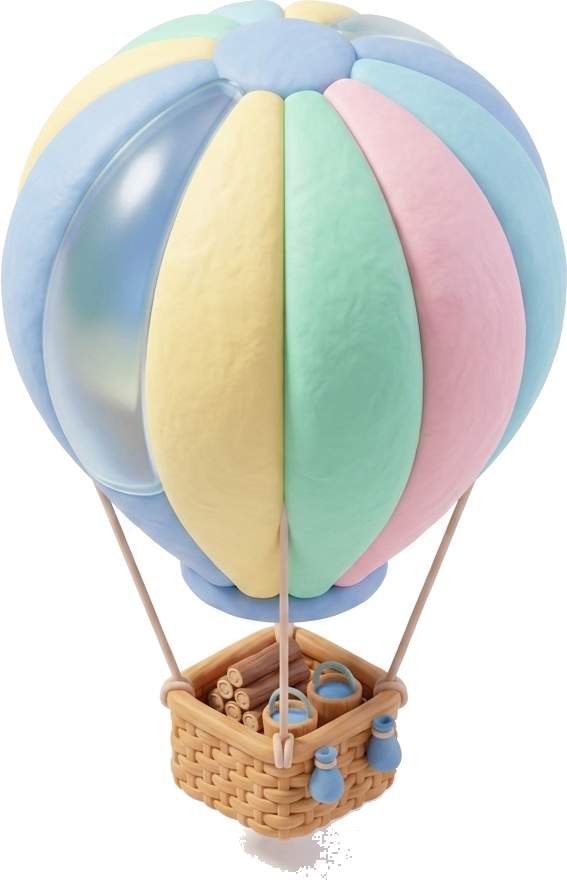
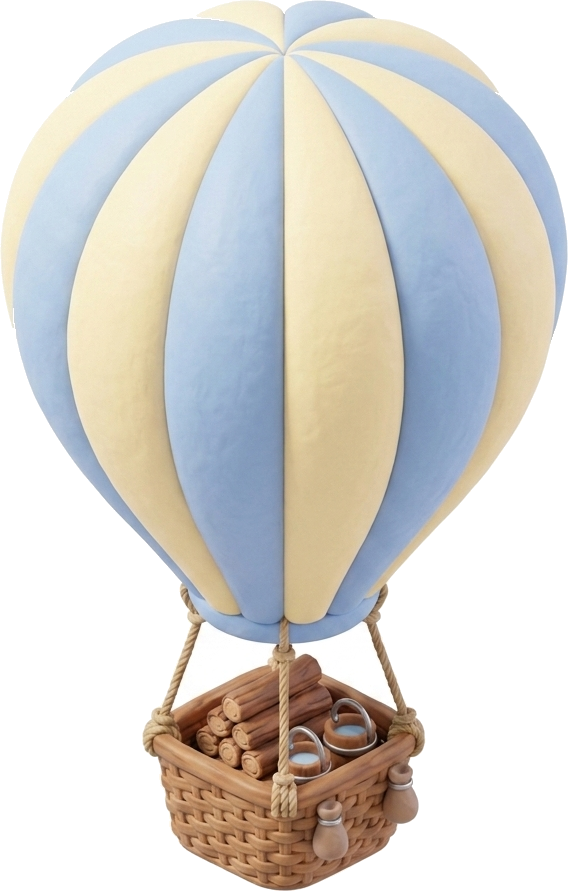
Add files via upload

diff --git a/app.js b/app.js
@@ -31,7 +31,7 @@ const ASSET_FILES = {
   apartment: 'assets/apartment.png?v=2',
   windmill: 'assets/windmill.png?v=2',
   warehouse: 'assets/warehouse.png?v=2',
-  balloon: 'assets/balloon.png?v=6',
+  balloon: 'assets/balloon.png?v=7',
   bicycle: 'assets/bicycle.png?v=2',
   car: 'assets/car.png?v=2',
   train: 'assets/train.png?v=2',
@@ -1089,7 +1089,7 @@ function renderIsland() {
     
     // 3. 按照深度排序繪製地標 (row + col 越小在越後方，先繪製；越大在越前方，後繪製)
     windmillAngle += 0.03;
-    const floatY = Math.sin(Date.now() / 450) * 4.5;
+    const floatY = Math.sin(Date.now() / 450) * 8.5;
     
     const drawOrder = [
       { r: 0, c: 0, type: 'castle', val: balance },

diff --git a/index.html b/index.html
@@ -146,6 +146,6 @@
 <!-- Chart.js 庫 -->
 <script src="https://cdnjs.cloudflare.com/ajax/libs/Chart.js/4.4.1/chart.umd.js"></script>
 <!-- 導入外部邏輯腳本 (附帶版本號防止快取) -->
-<script src="app.js?v=20260617_balance_v5"></script>
+<script src="app.js?v=20260617_balance_v6"></script>
 </body>
 </html>